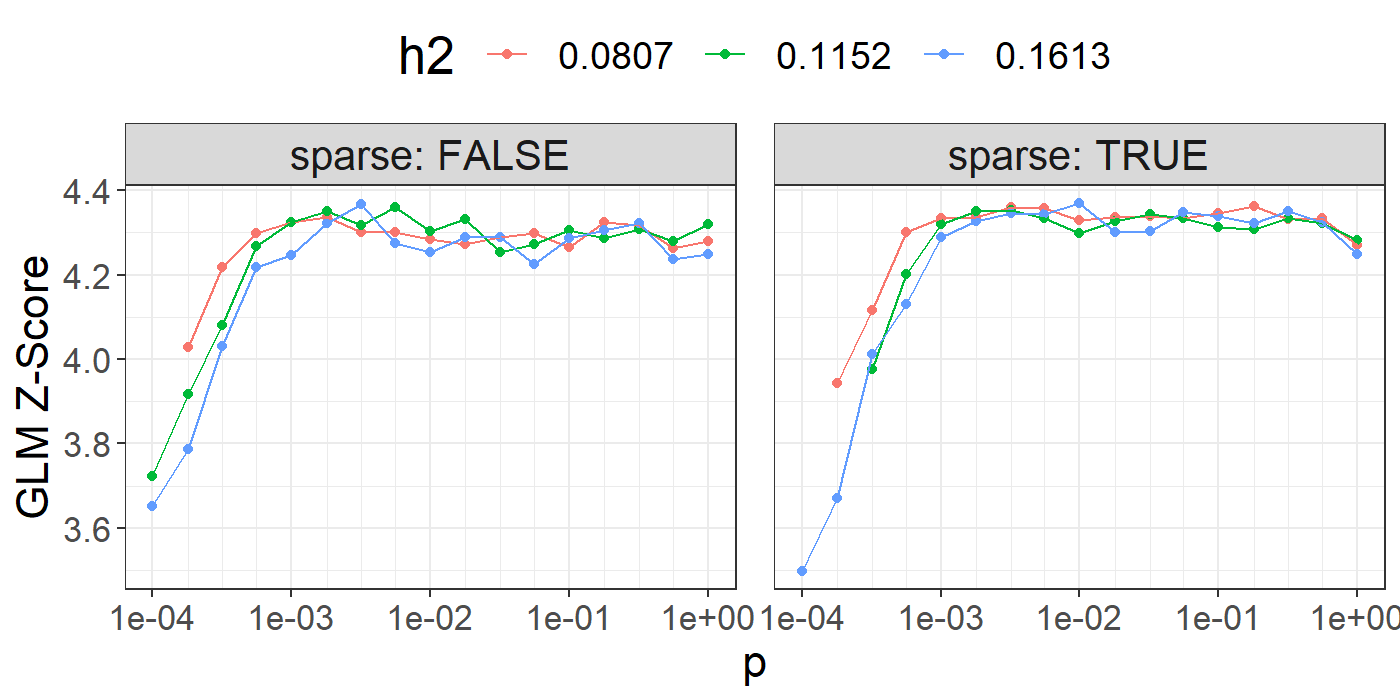
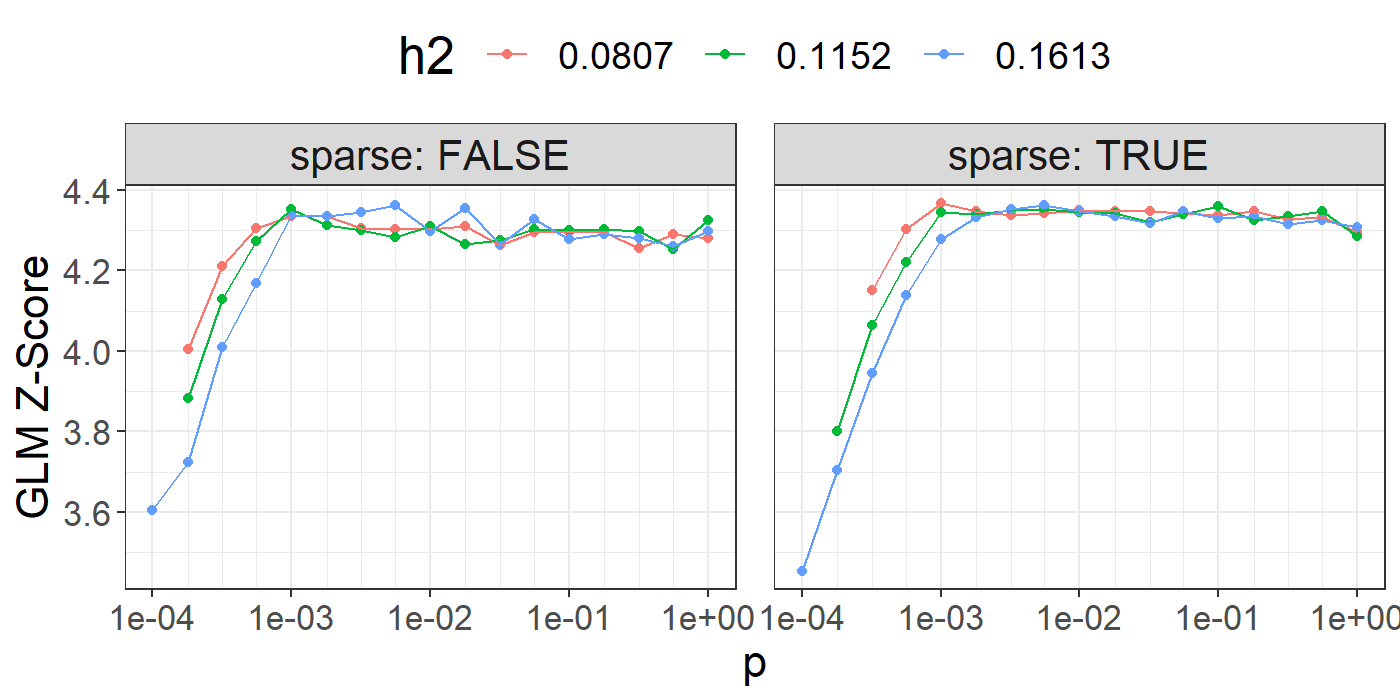
rebuild vignette

diff --git a/docs/articles/LDpred2.html b/docs/articles/LDpred2.html
@@ -31,7 +31,7 @@
       </button>
       <span class="navbar-brand">
         <a class="navbar-link" href="../index.html">bigsnpr</a>
-        <span class="version label label-default" data-toggle="tooltip" data-placement="bottom" title="Released version">1.4.0</span>
+        <span class="version label label-default" data-toggle="tooltip" data-placement="bottom" title="Released version">1.4.1</span>
       </span>
     </div>
 
@@ -43,7 +43,7 @@
 <li class="dropdown">
   <a href="#" class="dropdown-toggle" data-toggle="dropdown" role="button" aria-expanded="false">
     Vignettes
-     
+
     <span class="caret"></span>
   </a>
   <ul class="dropdown-menu" role="menu">
@@ -75,14 +75,14 @@
 <li>
   <a href="https://privefl.github.io/about.html">
     <span class="fa fa-user"></span>
-     
+
     About
   </a>
 </li>
 <li>
   <a href="https://github.com/privefl/bigsnpr">
     <span class="fa fa-github"></span>
-     
+
   </a>
 </li>
       </ul>
@@ -93,23 +93,23 @@
 </div>
 <!--/.navbar -->
 
-      
+
 
       </header><div class="row">
   <div class="col-md-9 contents">
     <div class="page-header toc-ignore">
       <h1 data-toc-skip>Computing polygenic scores using LDpred2</h1>
                         <h4 class="author">Florian Privé</h4>
-            
-            <h4 class="date">May 7, 2020</h4>
-      
+
+            <h4 class="date">May 25, 2020</h4>
+
       <small class="dont-index">Source: <a href="https://github.com/privefl/bigsnpr/blob/master/vignettes/LDpred2.Rmd"><code>vignettes/LDpred2.Rmd</code></a></small>
       <div class="hidden name"><code>LDpred2.Rmd</code></div>
 
     </div>
 
-    
-    
+
+
 <p>In this document, we show how to compute polygenic risk scores using LDpred2.</p>
 <div id="downloading-genotype-data-and-summary-statistics" class="section level2">
 <h2 class="hasAnchor">
@@ -194,6 +194,7 @@
 <div id="computing-ldpred2-scores-for-one-chromosome" class="section level2">
 <h2 class="hasAnchor">
 <a href="#computing-ldpred2-scores-for-one-chromosome" class="anchor"></a>Computing LDpred2 scores for one chromosome</h2>
+<p><strong>Some quality control on summary statistics is highly recommended (see paper).</strong></p>
 <div id="correlation" class="section level3">
 <h3 class="hasAnchor">
 <a href="#correlation" class="anchor"></a>Correlation</h3>
@@ -204,33 +205,34 @@
 <span class="no">df_beta</span> <span class="kw">&lt;-</span> <span class="no">info_snp</span>[<span class="no">ind.chr</span>, <span class="fu"><a href="https://rdrr.io/r/base/c.html">c</a></span>(<span class="st">"beta"</span>, <span class="st">"beta_se"</span>, <span class="st">"n_eff"</span>)]</pre></body></html></div>
 <div class="sourceCode" id="cb19"><html><body><pre class="r"><span class="co">## indices in G</span>
 <span class="no">ind.chr2</span> <span class="kw">&lt;-</span> <span class="no">info_snp</span>$<span class="no">`_NUM_ID_`</span>[<span class="no">ind.chr</span>]
-<span class="no">corr</span> <span class="kw">&lt;-</span> <span class="fu"><a href="../reference/snp_cor.html">snp_cor</a></span>(<span class="no">G</span>, <span class="kw">ind.col</span> <span class="kw">=</span> <span class="no">ind.chr2</span>, <span class="kw">ncores</span> <span class="kw">=</span> <span class="no">NCORES</span>,
-                <span class="kw">infos.pos</span> <span class="kw">=</span> <span class="no">POS2</span>[<span class="no">ind.chr2</span>], <span class="kw">size</span> <span class="kw">=</span> <span class="fl">3</span> / <span class="fl">1000</span>)</pre></body></html></div>
+<span class="no">corr0</span> <span class="kw">&lt;-</span> <span class="fu"><a href="../reference/snp_cor.html">snp_cor</a></span>(<span class="no">G</span>, <span class="kw">ind.col</span> <span class="kw">=</span> <span class="no">ind.chr2</span>, <span class="kw">ncores</span> <span class="kw">=</span> <span class="no">NCORES</span>,
+                 <span class="kw">infos.pos</span> <span class="kw">=</span> <span class="no">POS2</span>[<span class="no">ind.chr2</span>], <span class="kw">size</span> <span class="kw">=</span> <span class="fl">3</span> / <span class="fl">1000</span>)</pre></body></html></div>
+<div class="sourceCode" id="cb20"><html><body><pre class="r"><span class="no">corr</span> <span class="kw">&lt;-</span> <span class="kw pkg">bigsparser</span><span class="kw ns">::</span><span class="fu"><a href="https://rdrr.io/pkg/bigsparser/man/SFBM-class.html">as_SFBM</a></span>(<span class="fu">as</span>(<span class="no">corr0</span>, <span class="st">"dgCMatrix"</span>))</pre></body></html></div>
 </div>
 <div id="infinitesimal-model" class="section level3">
 <h3 class="hasAnchor">
 <a href="#infinitesimal-model" class="anchor"></a>Infinitesimal model</h3>
-<div class="sourceCode" id="cb20"><html><body><pre class="r">(<span class="no">ldsc</span> <span class="kw">&lt;-</span> <span class="fu"><a href="../reference/snp_ldsc.html">snp_ldsc2</a></span>(<span class="no">corr</span>, <span class="no">df_beta</span>))</pre></body></html></div>
-<pre><code>##       int        h2 
-## 1.0000000 0.1152197</code></pre>
-<div class="sourceCode" id="cb22"><html><body><pre class="r"><span class="no">h2_est</span> <span class="kw">&lt;-</span> <span class="no">ldsc</span><span class="kw">[[</span><span class="st">"h2"</span>]]</pre></body></html></div>
-<div class="sourceCode" id="cb23"><html><body><pre class="r"><span class="no">beta_inf</span> <span class="kw">&lt;-</span> <span class="fu"><a href="../reference/LDpred2.html">snp_ldpred2_inf</a></span>(<span class="no">corr</span>, <span class="no">df_beta</span>, <span class="kw">h2</span> <span class="kw">=</span> <span class="no">h2_est</span>)</pre></body></html></div>
-<div class="sourceCode" id="cb24"><html><body><pre class="r"><span class="no">pred_inf</span> <span class="kw">&lt;-</span> <span class="fu">big_prodVec</span>(<span class="no">G</span>, <span class="no">beta_inf</span>, <span class="kw">ind.row</span> <span class="kw">=</span> <span class="no">ind.test</span>, <span class="kw">ind.col</span> <span class="kw">=</span> <span class="no">ind.chr2</span>)
+<div class="sourceCode" id="cb21"><html><body><pre class="r">(<span class="no">ldsc</span> <span class="kw">&lt;-</span> <span class="fu"><a href="../reference/snp_ldsc.html">snp_ldsc2</a></span>(<span class="no">corr0</span>, <span class="no">df_beta</span>))</pre></body></html></div>
+<pre><code>##       int        h2
+## 1.0000000 0.1152166</code></pre>
+<div class="sourceCode" id="cb23"><html><body><pre class="r"><span class="no">h2_est</span> <span class="kw">&lt;-</span> <span class="no">ldsc</span><span class="kw">[[</span><span class="st">"h2"</span>]]</pre></body></html></div>
+<div class="sourceCode" id="cb24"><html><body><pre class="r"><span class="no">beta_inf</span> <span class="kw">&lt;-</span> <span class="fu"><a href="../reference/LDpred2.html">snp_ldpred2_inf</a></span>(<span class="no">corr</span>, <span class="no">df_beta</span>, <span class="kw">h2</span> <span class="kw">=</span> <span class="no">h2_est</span>)</pre></body></html></div>
+<div class="sourceCode" id="cb25"><html><body><pre class="r"><span class="no">pred_inf</span> <span class="kw">&lt;-</span> <span class="fu">big_prodVec</span>(<span class="no">G</span>, <span class="no">beta_inf</span>, <span class="kw">ind.row</span> <span class="kw">=</span> <span class="no">ind.test</span>, <span class="kw">ind.col</span> <span class="kw">=</span> <span class="no">ind.chr2</span>)
 <span class="fu">AUCBoot</span>(<span class="no">pred_inf</span>, <span class="no">y</span>[<span class="no">ind.test</span>])</pre></body></html></div>
-<pre><code>##       Mean       2.5%      97.5%         Sd 
+<pre><code>##       Mean       2.5%      97.5%         Sd
 ## 0.66347145 0.56739110 0.75341191 0.04784474</code></pre>
 </div>
 <div id="grid-of-models" class="section level3">
 <h3 class="hasAnchor">
 <a href="#grid-of-models" class="anchor"></a>Grid of models</h3>
 <p>In practice, we recommend to test multiple values for h2 and p. </p>
-<div class="sourceCode" id="cb26"><html><body><pre class="r">(<span class="no">h2_seq</span> <span class="kw">&lt;-</span> <span class="fu"><a href="https://rdrr.io/r/base/Round.html">round</a></span>(<span class="no">h2_est</span> * <span class="fu"><a href="https://rdrr.io/r/base/c.html">c</a></span>(<span class="fl">0.7</span>, <span class="fl">1</span>, <span class="fl">1.4</span>), <span class="fl">4</span>))</pre></body></html></div>
+<div class="sourceCode" id="cb27"><html><body><pre class="r">(<span class="no">h2_seq</span> <span class="kw">&lt;-</span> <span class="fu"><a href="https://rdrr.io/r/base/Round.html">round</a></span>(<span class="no">h2_est</span> * <span class="fu"><a href="https://rdrr.io/r/base/c.html">c</a></span>(<span class="fl">0.7</span>, <span class="fl">1</span>, <span class="fl">1.4</span>), <span class="fl">4</span>))</pre></body></html></div>
 <pre><code>## [1] 0.0807 0.1152 0.1613</code></pre>
-<div class="sourceCode" id="cb28"><html><body><pre class="r">(<span class="no">p_seq</span> <span class="kw">&lt;-</span> <span class="fu"><a href="https://rdrr.io/r/base/Round.html">signif</a></span>(<span class="fu"><a href="../reference/seq_log.html">seq_log</a></span>(<span class="fl">1e-4</span>, <span class="fl">1</span>, <span class="kw">length.out</span> <span class="kw">=</span> <span class="fl">17</span>), <span class="fl">2</span>))</pre></body></html></div>
+<div class="sourceCode" id="cb29"><html><body><pre class="r">(<span class="no">p_seq</span> <span class="kw">&lt;-</span> <span class="fu"><a href="https://rdrr.io/r/base/Round.html">signif</a></span>(<span class="fu"><a href="../reference/seq_log.html">seq_log</a></span>(<span class="fl">1e-4</span>, <span class="fl">1</span>, <span class="kw">length.out</span> <span class="kw">=</span> <span class="fl">17</span>), <span class="fl">2</span>))</pre></body></html></div>
 <pre><code>##  [1] 0.00010 0.00018 0.00032 0.00056 0.00100 0.00180 0.00320 0.00560
 ##  [9] 0.01000 0.01800 0.03200 0.05600 0.10000 0.18000 0.32000 0.56000
 ## [17] 1.00000</code></pre>
-<div class="sourceCode" id="cb30"><html><body><pre class="r">(<span class="no">params</span> <span class="kw">&lt;-</span> <span class="fu"><a href="https://rdrr.io/r/base/expand.grid.html">expand.grid</a></span>(<span class="kw">p</span> <span class="kw">=</span> <span class="no">p_seq</span>, <span class="kw">h2</span> <span class="kw">=</span> <span class="no">h2_seq</span>, <span class="kw">sparse</span> <span class="kw">=</span> <span class="fu"><a href="https://rdrr.io/r/base/c.html">c</a></span>(<span class="fl">FALSE</span>, <span class="fl">TRUE</span>)))</pre></body></html></div>
+<div class="sourceCode" id="cb31"><html><body><pre class="r">(<span class="no">params</span> <span class="kw">&lt;-</span> <span class="fu"><a href="https://rdrr.io/r/base/expand.grid.html">expand.grid</a></span>(<span class="kw">p</span> <span class="kw">=</span> <span class="no">p_seq</span>, <span class="kw">h2</span> <span class="kw">=</span> <span class="no">h2_seq</span>, <span class="kw">sparse</span> <span class="kw">=</span> <span class="fu"><a href="https://rdrr.io/r/base/c.html">c</a></span>(<span class="fl">FALSE</span>, <span class="fl">TRUE</span>)))</pre></body></html></div>
 <pre><code>##           p     h2 sparse
 ## 1   0.00010 0.0807  FALSE
 ## 2   0.00018 0.0807  FALSE
@@ -334,18 +336,15 @@
 ## 100 0.32000 0.1613   TRUE
 ## 101 0.56000 0.1613   TRUE
 ## 102 1.00000 0.1613   TRUE</code></pre>
-<div class="sourceCode" id="cb32"><html><body><pre class="r"><span class="co"># takes several minutes if you do not have many cores</span>
+<div class="sourceCode" id="cb33"><html><body><pre class="r"><span class="co"># takes several minutes if you do not have many cores</span>
 <span class="no">beta_grid</span> <span class="kw">&lt;-</span> <span class="fu"><a href="../reference/LDpred2.html">snp_ldpred2_grid</a></span>(<span class="no">corr</span>, <span class="no">df_beta</span>, <span class="no">params</span>, <span class="kw">ncores</span> <span class="kw">=</span> <span class="no">NCORES</span>)</pre></body></html></div>
-<div class="sourceCode" id="cb33"><html><body><pre class="r"><span class="no">pred_grid</span> <span class="kw">&lt;-</span> <span class="fu">big_prodMat</span>(<span class="no">G</span>, <span class="no">beta_grid</span>, <span class="kw">ind.col</span> <span class="kw">=</span> <span class="no">ind.chr2</span>)
+<div class="sourceCode" id="cb34"><html><body><pre class="r"><span class="no">pred_grid</span> <span class="kw">&lt;-</span> <span class="fu">big_prodMat</span>(<span class="no">G</span>, <span class="no">beta_grid</span>, <span class="kw">ind.col</span> <span class="kw">=</span> <span class="no">ind.chr2</span>)
 <span class="no">params</span>[<span class="fu"><a href="https://rdrr.io/r/base/c.html">c</a></span>(<span class="st">"coef"</span>, <span class="st">"score"</span>)] <span class="kw">&lt;-</span>
   <span class="fu">big_univLogReg</span>(<span class="fu">as_FBM</span>(<span class="no">pred_grid</span>[<span class="no">ind.val</span>, ]), <span class="no">y</span>[<span class="no">ind.val</span>])[<span class="fu"><a href="https://rdrr.io/r/base/c.html">c</a></span>(<span class="st">"estim"</span>, <span class="st">"score"</span>)]</pre></body></html></div>
-<pre><code>## For 4 columns, IRLS didn't converge; `glm` was used instead.</code></pre>
-<pre><code>## Warning: For 4 columns, glm didn't converge either.</code></pre>
-<div class="sourceCode" id="cb36"><html><body><pre class="r"><span class="no">params</span>$<span class="no">auc_val</span>  <span class="kw">&lt;-</span> <span class="fu"><a href="https://rdrr.io/r/base/apply.html">apply</a></span>(<span class="no">pred_grid</span>[<span class="no">ind.val</span>, ],  <span class="fl">2</span>, <span class="no">AUC</span>, <span class="kw">target</span> <span class="kw">=</span> <span class="no">y</span>[<span class="no">ind.val</span>])
-<span class="no">params</span>$<span class="no">auc_test</span> <span class="kw">&lt;-</span> <span class="fu"><a href="https://rdrr.io/r/base/apply.html">apply</a></span>(<span class="no">pred_grid</span>[<span class="no">ind.test</span>, ], <span class="fl">2</span>, <span class="no">AUC</span>, <span class="kw">target</span> <span class="kw">=</span> <span class="no">y</span>[<span class="no">ind.test</span>])</pre></body></html></div>
-<div class="sourceCode" id="cb37"><html><body><pre class="r"><span class="fu"><a href="https://rdrr.io/r/base/library.html">library</a></span>(<span class="no">ggplot2</span>)</pre></body></html></div>
-<pre><code>## Warning: package 'ggplot2' was built under R version 3.6.3</code></pre>
-<div class="sourceCode" id="cb39"><html><body><pre class="r"><span class="fu"><a href="https://ggplot2.tidyverse.org/reference/ggplot.html">ggplot</a></span>(<span class="no">params</span>, <span class="fu"><a href="https://ggplot2.tidyverse.org/reference/aes.html">aes</a></span>(<span class="kw">x</span> <span class="kw">=</span> <span class="no">p</span>, <span class="kw">y</span> <span class="kw">=</span> <span class="no">score</span>, <span class="kw">color</span> <span class="kw">=</span> <span class="fu"><a href="https://rdrr.io/r/base/factor.html">as.factor</a></span>(<span class="no">h2</span>))) +
+<pre><code>## For 5 columns, IRLS didn't converge; `glm` was used instead.</code></pre>
+<pre><code>## Warning: For 5 columns, glm didn't converge either.</code></pre>
+<div class="sourceCode" id="cb37"><html><body><pre class="r"><span class="fu"><a href="https://rdrr.io/r/base/library.html">library</a></span>(<span class="no">ggplot2</span>)
+<span class="fu"><a href="https://ggplot2.tidyverse.org/reference/ggplot.html">ggplot</a></span>(<span class="no">params</span>, <span class="fu"><a href="https://ggplot2.tidyverse.org/reference/aes.html">aes</a></span>(<span class="kw">x</span> <span class="kw">=</span> <span class="no">p</span>, <span class="kw">y</span> <span class="kw">=</span> <span class="no">score</span>, <span class="kw">color</span> <span class="kw">=</span> <span class="fu"><a href="https://rdrr.io/r/base/factor.html">as.factor</a></span>(<span class="no">h2</span>))) +
   <span class="fu">theme_bigstatsr</span>() +
   <span class="fu"><a href="https://ggplot2.tidyverse.org/reference/geom_point.html">geom_point</a></span>() +
   <span class="fu"><a href="https://ggplot2.tidyverse.org/reference/geom_path.html">geom_line</a></span>() +
@@ -353,28 +352,28 @@
   <span class="fu"><a href="https://ggplot2.tidyverse.org/reference/facet_wrap.html">facet_wrap</a></span>(~ <span class="no">sparse</span>, <span class="kw">labeller</span> <span class="kw">=</span> <span class="no">label_both</span>) +
   <span class="fu"><a href="https://ggplot2.tidyverse.org/reference/labs.html">labs</a></span>(<span class="kw">y</span> <span class="kw">=</span> <span class="st">"GLM Z-Score"</span>, <span class="kw">color</span> <span class="kw">=</span> <span class="st">"h2"</span>) +
   <span class="fu"><a href="https://ggplot2.tidyverse.org/reference/theme.html">theme</a></span>(<span class="kw">legend.position</span> <span class="kw">=</span> <span class="st">"top"</span>, <span class="kw">panel.spacing</span> <span class="kw">=</span> <span class="fu"><a href="https://ggplot2.tidyverse.org/reference/reexports.html">unit</a></span>(<span class="fl">1</span>, <span class="st">"lines"</span>))</pre></body></html></div>
-<pre><code>## Warning: Removed 4 rows containing missing values (geom_point).</code></pre>
-<pre><code>## Warning: Removed 1 row(s) containing missing values (geom_path).</code></pre>
+<pre><code>## Warning: Removed 5 rows containing missing values (geom_point).</code></pre>
+<pre><code>## Warning: Removed 2 row(s) containing missing values (geom_path).</code></pre>
 <p><img src="LDpred2_files/figure-html/unnamed-chunk-17-1.png" width="90%" style="display: block; margin: auto;"></p>
-<div class="sourceCode" id="cb42"><html><body><pre class="r"><span class="fu"><a href="https://rdrr.io/r/base/library.html">library</a></span>(<span class="no">dplyr</span>)
+<div class="sourceCode" id="cb40"><html><body><pre class="r"><span class="fu"><a href="https://rdrr.io/r/base/library.html">library</a></span>(<span class="no">dplyr</span>)
 <span class="no">params</span> <span class="kw">%&gt;%</span>
   <span class="fu"><a href="https://dplyr.tidyverse.org/reference/mutate.html">mutate</a></span>(<span class="kw">sparsity</span> <span class="kw">=</span> <span class="fu"><a href="https://rdrr.io/r/base/colSums.html">colMeans</a></span>(<span class="no">beta_grid</span> <span class="kw">==</span> <span class="fl">0</span>), <span class="kw">id</span> <span class="kw">=</span> <span class="fu"><a href="https://dplyr.tidyverse.org/reference/ranking.html">row_number</a></span>()) <span class="kw">%&gt;%</span>
   <span class="fu"><a href="https://dplyr.tidyverse.org/reference/arrange.html">arrange</a></span>(<span class="fu"><a href="https://dplyr.tidyverse.org/reference/desc.html">desc</a></span>(<span class="no">score</span>)) <span class="kw">%&gt;%</span>
-  <span class="fu"><a href="https://dplyr.tidyverse.org/reference/mutate_all.html">mutate_at</a></span>(<span class="fl">4</span>:<span class="fl">8</span>, <span class="no">signif</span>, <span class="kw">digits</span> <span class="kw">=</span> <span class="fl">3</span>) <span class="kw">%&gt;%</span>
+  <span class="fu"><a href="https://dplyr.tidyverse.org/reference/mutate_all.html">mutate_at</a></span>(<span class="fu"><a href="https://rdrr.io/r/base/c.html">c</a></span>(<span class="st">"coef"</span>, <span class="st">"score"</span>, <span class="st">"sparsity"</span>), <span class="no">round</span>, <span class="kw">digits</span> <span class="kw">=</span> <span class="fl">3</span>) <span class="kw">%&gt;%</span>
   <span class="fu"><a href="https://dplyr.tidyverse.org/reference/slice.html">slice</a></span>(<span class="fl">1</span>:<span class="fl">10</span>)</pre></body></html></div>
-<pre><code>##         p     h2 sparse coef score auc_val auc_test sparsity  id
-## 1  0.0100 0.1613   TRUE 2.02  4.37   0.652    0.669    0.575  94
-## 2  0.0032 0.1613  FALSE 1.66  4.37   0.653    0.670    0.000  41
-## 3  0.1800 0.0807   TRUE 4.07  4.36   0.650    0.669    0.601  65
-## 4  0.0032 0.0807   TRUE 3.94  4.36   0.651    0.671    0.604  58
-## 5  0.0056 0.1152  FALSE 2.31  4.36   0.652    0.664    0.000  25
-## 6  0.0056 0.0807   TRUE 3.98  4.36   0.651    0.668    0.603  59
-## 7  0.0032 0.1152   TRUE 2.73  4.35   0.652    0.669    0.597  75
-## 8  0.0018 0.1152  FALSE 2.30  4.35   0.653    0.670    0.000  23
-## 9  0.3200 0.1613   TRUE 2.06  4.35   0.650    0.666    0.572 100
-## 10 0.0018 0.1152   TRUE 2.67  4.35   0.654    0.673    0.603  74</code></pre>
+<pre><code>##         p     h2 sparse  coef score sparsity id
+## 1  0.0010 0.0807   TRUE 3.775 4.366    0.593 56
+## 2  0.0056 0.1613  FALSE 1.659 4.363    0.000 42
+## 3  0.0056 0.1613   TRUE 1.988 4.362    0.544 93
+## 4  0.1000 0.1152   TRUE 2.864 4.361    0.573 81
+## 5  0.0180 0.1613  FALSE 1.661 4.356    0.000 44
+## 6  0.0010 0.1152  FALSE 2.311 4.353    0.000 22
+## 7  0.0032 0.1613   TRUE 1.949 4.352    0.551 92
+## 8  0.0056 0.1152   TRUE 2.782 4.351    0.564 76
+## 9  0.0032 0.1152   TRUE 2.734 4.351    0.565 75
+## 10 0.0100 0.0807   TRUE 4.010 4.349    0.582 60</code></pre>
 <p>You can then choose the best model according to your preferred criterion (e.g. max AUC). Here, we use the Z-Score from the regression of the phenotype by the PRS since we have found it more robust than using the AUC. It also enables adjusting for covariates in this step. We also scale the effect sizes by the regresion coefficient to be on a proper scaling when adding it to other chromosomes’ scores.</p>
-<div class="sourceCode" id="cb44"><html><body><pre class="r"><span class="no">best_grid_nosp</span> <span class="kw">&lt;-</span> <span class="no">params</span> <span class="kw">%&gt;%</span>
+<div class="sourceCode" id="cb42"><html><body><pre class="r"><span class="no">best_grid_nosp</span> <span class="kw">&lt;-</span> <span class="no">params</span> <span class="kw">%&gt;%</span>
   <span class="fu"><a href="https://dplyr.tidyverse.org/reference/mutate.html">mutate</a></span>(<span class="kw">id</span> <span class="kw">=</span> <span class="fu"><a href="https://dplyr.tidyverse.org/reference/ranking.html">row_number</a></span>()) <span class="kw">%&gt;%</span>
   <span class="fu"><a href="https://dplyr.tidyverse.org/reference/filter.html">filter</a></span>(!<span class="no">sparse</span>) <span class="kw">%&gt;%</span>
   <span class="fu"><a href="https://dplyr.tidyverse.org/reference/arrange.html">arrange</a></span>(<span class="fu"><a href="https://dplyr.tidyverse.org/reference/desc.html">desc</a></span>(<span class="no">score</span>)) <span class="kw">%&gt;%</span>
@@ -383,9 +382,9 @@
 
 <span class="no">pred_nosp</span> <span class="kw">&lt;-</span> <span class="fu">big_prodVec</span>(<span class="no">G</span>, <span class="no">best_grid_nosp</span>, <span class="kw">ind.row</span> <span class="kw">=</span> <span class="no">ind.test</span>, <span class="kw">ind.col</span> <span class="kw">=</span> <span class="no">ind.chr2</span>)
 <span class="fu">AUCBoot</span>(<span class="no">pred_nosp</span>, <span class="no">y</span>[<span class="no">ind.test</span>])</pre></body></html></div>
-<pre><code>##       Mean       2.5%      97.5%         Sd 
-## 0.67019170 0.57172945 0.76130563 0.04881019</code></pre>
-<div class="sourceCode" id="cb46"><html><body><pre class="r"><span class="no">best_grid_sp</span> <span class="kw">&lt;-</span> <span class="no">params</span> <span class="kw">%&gt;%</span>
+<pre><code>##       Mean       2.5%      97.5%         Sd
+## 0.66529037 0.56933474 0.75679078 0.04782163</code></pre>
+<div class="sourceCode" id="cb44"><html><body><pre class="r"><span class="no">best_grid_sp</span> <span class="kw">&lt;-</span> <span class="no">params</span> <span class="kw">%&gt;%</span>
   <span class="fu"><a href="https://dplyr.tidyverse.org/reference/mutate.html">mutate</a></span>(<span class="kw">id</span> <span class="kw">=</span> <span class="fu"><a href="https://dplyr.tidyverse.org/reference/ranking.html">row_number</a></span>()) <span class="kw">%&gt;%</span>
   <span class="fu"><a href="https://dplyr.tidyverse.org/reference/filter.html">filter</a></span>(<span class="no">sparse</span>) <span class="kw">%&gt;%</span>
   <span class="fu"><a href="https://dplyr.tidyverse.org/reference/arrange.html">arrange</a></span>(<span class="fu"><a href="https://dplyr.tidyverse.org/reference/desc.html">desc</a></span>(<span class="no">score</span>)) <span class="kw">%&gt;%</span>
@@ -394,13 +393,13 @@
 
 <span class="no">pred_sp</span> <span class="kw">&lt;-</span> <span class="fu">big_prodVec</span>(<span class="no">G</span>, <span class="no">best_grid_sp</span>, <span class="kw">ind.row</span> <span class="kw">=</span> <span class="no">ind.test</span>, <span class="kw">ind.col</span> <span class="kw">=</span> <span class="no">ind.chr2</span>)
 <span class="fu">AUCBoot</span>(<span class="no">pred_sp</span>, <span class="no">y</span>[<span class="no">ind.test</span>])</pre></body></html></div>
-<pre><code>##       Mean       2.5%      97.5%         Sd 
-## 0.66861458 0.56906355 0.76220700 0.04894343</code></pre>
+<pre><code>##       Mean       2.5%      97.5%         Sd
+## 0.67250467 0.57387886 0.76612549 0.04903482</code></pre>
 </div>
 <div id="automatic-model" class="section level3">
 <h3 class="hasAnchor">
 <a href="#automatic-model" class="anchor"></a>Automatic model</h3>
-<div class="sourceCode" id="cb48"><html><body><pre class="r"><span class="co"># takes a few minutes</span>
+<div class="sourceCode" id="cb46"><html><body><pre class="r"><span class="co"># takes a few minutes</span>
 <span class="no">auto</span> <span class="kw">&lt;-</span> <span class="fu"><a href="../reference/LDpred2.html">snp_ldpred2_auto</a></span>(<span class="no">corr</span>, <span class="no">df_beta</span>, <span class="kw">h2_init</span> <span class="kw">=</span> <span class="no">h2_est</span>)
 <span class="fu"><a href="https://rdrr.io/r/utils/str.html">str</a></span>(<span class="no">auto</span>)</pre></body></html></div>
 <pre><code>## List of 5
@@ -410,7 +409,7 @@
 ##  $ path_p_est : num [1:2000] 0.103 0.101 0.1004 0.0996 0.0962 ...
 ##  $ path_h2_est: num [1:2000] 0.1115 0.1128 0.1087 0.1027 0.0952 ...</code></pre>
 <p>You should verify if the algorithm “converged”. This is not the case here, which is probably because the data is so small.</p>
-<div class="sourceCode" id="cb50"><html><body><pre class="r"><span class="fu">plot_grid</span>(
+<div class="sourceCode" id="cb48"><html><body><pre class="r"><span class="fu">plot_grid</span>(
   <span class="fu"><a href="https://ggplot2.tidyverse.org/reference/qplot.html">qplot</a></span>(<span class="kw">y</span> <span class="kw">=</span> <span class="no">auto</span>$<span class="no">path_p_est</span>) +
     <span class="fu">theme_bigstatsr</span>() +
     <span class="fu"><a href="https://ggplot2.tidyverse.org/reference/geom_abline.html">geom_hline</a></span>(<span class="kw">yintercept</span> <span class="kw">=</span> <span class="no">auto</span>$<span class="no">p_est</span>, <span class="kw">col</span> <span class="kw">=</span> <span class="st">"blue"</span>) +
@@ -423,15 +422,15 @@
   <span class="kw">ncol</span> <span class="kw">=</span> <span class="fl">1</span>, <span class="kw">align</span> <span class="kw">=</span> <span class="st">"hv"</span>
 )</pre></body></html></div>
 <p><img src="LDpred2_files/figure-html/unnamed-chunk-22-1.png" width="700" style="display: block; margin: auto;"></p>
-<div class="sourceCode" id="cb51"><html><body><pre class="r"><span class="no">beta_auto</span> <span class="kw">&lt;-</span> <span class="no">auto</span>$<span class="no">beta_est</span>
+<div class="sourceCode" id="cb49"><html><body><pre class="r"><span class="no">beta_auto</span> <span class="kw">&lt;-</span> <span class="no">auto</span>$<span class="no">beta_est</span>
 <span class="no">pred_auto</span> <span class="kw">&lt;-</span> <span class="fu">big_prodVec</span>(<span class="no">G</span>, <span class="no">beta_auto</span>, <span class="kw">ind.row</span> <span class="kw">=</span> <span class="no">ind.test</span>, <span class="kw">ind.col</span> <span class="kw">=</span> <span class="no">ind.chr2</span>)</pre></body></html></div>
-<div class="sourceCode" id="cb52"><html><body><pre class="r"><span class="co"># Make sure it is on some appropriate scaling </span>
+<div class="sourceCode" id="cb50"><html><body><pre class="r"><span class="co"># Make sure it is on some appropriate scaling </span>
 <span class="co"># (the same as LDpred2-inf or a bit larger if the prediction is better)</span>
 <span class="co"># to safely merge predictions from multiple chromosomes</span>
 <span class="fu"><a href="https://rdrr.io/r/base/c.html">c</a></span>(<span class="fu"><a href="https://rdrr.io/r/stats/mad.html">mad</a></span>(<span class="no">pred_inf</span>), <span class="fu"><a href="https://rdrr.io/r/stats/mad.html">mad</a></span>(<span class="no">pred_auto</span>))</pre></body></html></div>
-<pre><code>## [1] 0.21731469 0.01080653</code></pre>
-<div class="sourceCode" id="cb54"><html><body><pre class="r"><span class="fu">AUCBoot</span>(<span class="no">pred_auto</span>, <span class="no">y</span>[<span class="no">ind.test</span>])</pre></body></html></div>
-<pre><code>##       Mean       2.5%      97.5%         Sd 
+<pre><code>## [1] 0.21730996 0.01080653</code></pre>
+<div class="sourceCode" id="cb52"><html><body><pre class="r"><span class="fu">AUCBoot</span>(<span class="no">pred_auto</span>, <span class="no">y</span>[<span class="no">ind.test</span>])</pre></body></html></div>
+<pre><code>##       Mean       2.5%      97.5%         Sd
 ## 0.66406058 0.56785167 0.75483193 0.04833385</code></pre>
 </div>
 </div>
@@ -468,7 +467,7 @@
       </footer>
 </div>
 
-  
+
 
 
   </body>
